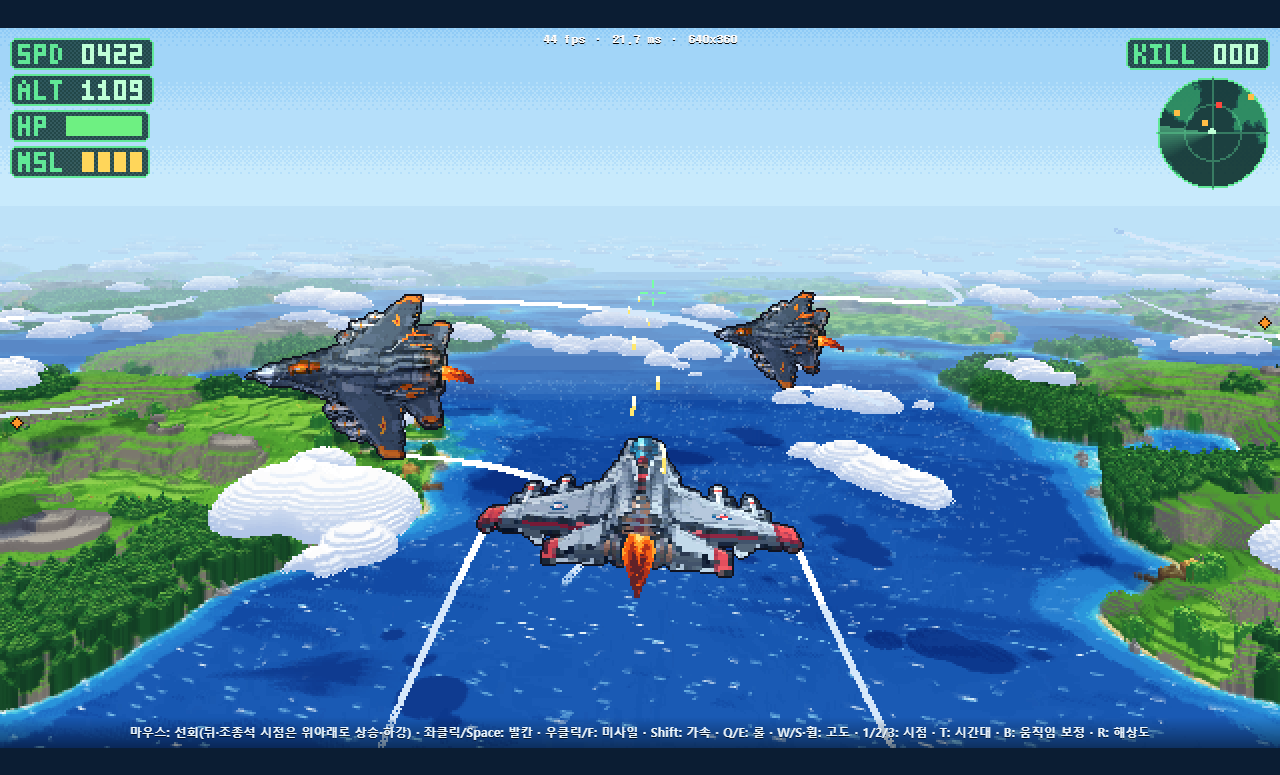
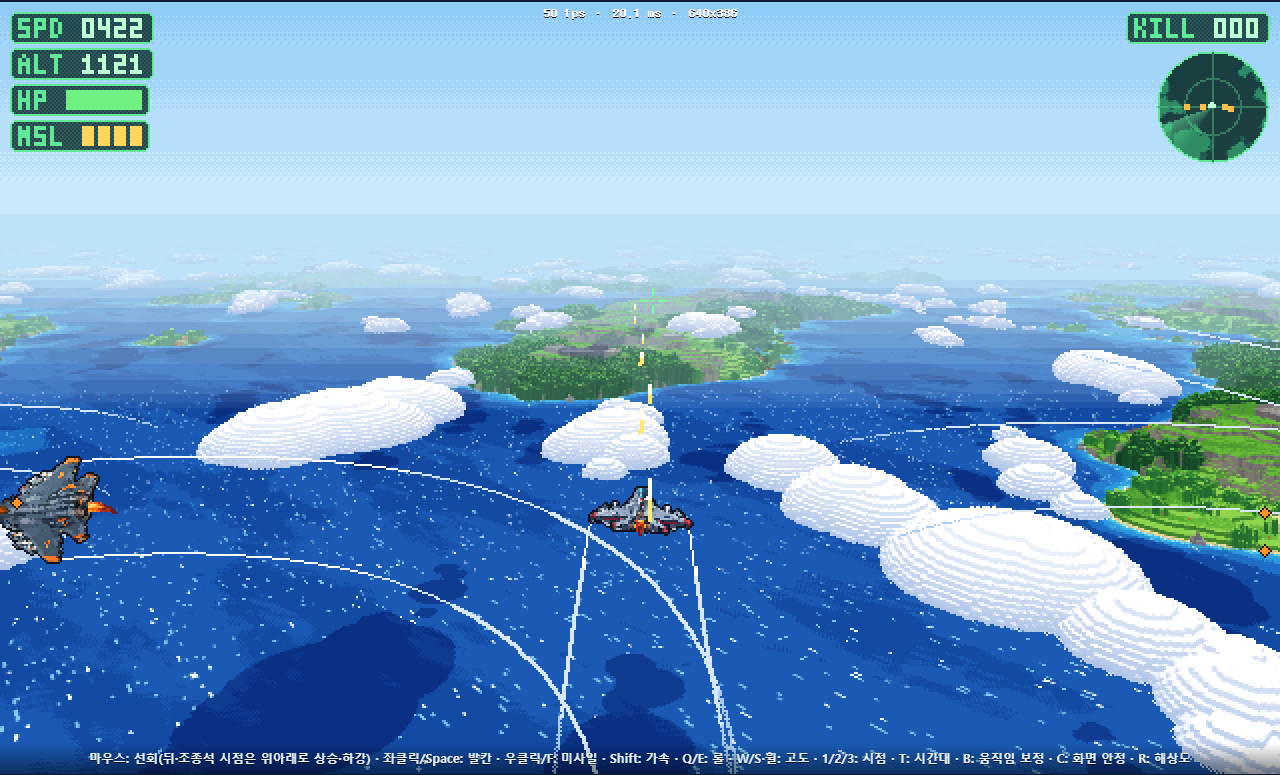
Shrink the jets to a third of their size against the world
Chase camera keeps the same framing of the world; hit boxes, missiles,
exhaust, spray, trails and explosions scale down with the jets.

diff --git a/fighter.html b/fighter.html
@@ -918,14 +918,15 @@ function drawCockpit(fb, W, H, art, live) {
 const N = 2048, NM = N - 1, NSH = 11;        // world size (wraps)
 const NC = 1024, NCM = NC - 1, NCSH = 10;    // cloud map size (wraps)
 const CK = 12, CLOUD_ALT = 78, ZTOP = CLOUD_ALT + CK;
-const JET_SC = 0.55;                          // world units per jet voxel
+const JET_SC = 0.55 / 3;                      // world units per jet voxel (a jet is ~18 units long)
+const JS = JET_SC / 0.55;                      // size of things scaled to the jet, against the original tuning
 const VIEW_DIST = 1700, FOG_START = 340, FOG_STEPS = 12, NSKY = 10, EPS = 1e-5;
 const COCKPIT_LOOK = 64, COCKPIT_EYE = 5;
 const TRAIL_N = 96;
 const BAYER = [0, 8, 2, 10, 12, 4, 14, 6, 3, 11, 1, 9, 15, 7, 13, 5];
 const P = {
   speed: 96, boost: 1.9, agility: 1.3, bank: 56, altitude: 112, ceiling: 280, clearance: 7,
-  cameraFollow: 0.6, chaseDistance: 2.5, chaseAngle: 19, chaseSize: 0.23, transition: 1.2,
+  cameraFollow: 0.6, chaseDistance: 2.5 / JS, chaseAngle: 19, chaseSize: 0.23 * JS, transition: 1.2,
   clouds: 0.4, land: 0.33, seed: 7, afterburner: 0.9,
 };
 
@@ -1432,8 +1433,10 @@ function createGame() {
 
   // ── effects
   // kind: 0 dark smoke · 1 white vapour · 2 fire (ages through the fire palette into smoke)
+  let puffK = 1;   // explode() shrinks its puffs with this
   function puff(kind, x, y, z, vx, vy, vz, size, grow, life, strength, delay = 0) {
     if (puffs.length > 420) puffs.shift();
+    vx *= puffK; vy *= puffK; vz *= puffK; size *= puffK; grow *= puffK;
     puffs.push({ kind, x, y, z, vx, vy, vz, size, grow, life, born: time + delay, strength, seed: (Math.random() * 16) | 0 });
   }
   function spark(x, y, z, vx, vy, vz, life, col, g) {
@@ -1441,6 +1444,7 @@ function createGame() {
     sparks.push({ x, y, z, vx, vy, vz, life, born: time, col, g });
   }
   function explode(x, y, z, big) {
+    puffK = 0.6;
     const rnd = Math.random;
     if (big) {
       // a white flash, a knot of fireballs, more thrown outwards a beat later, then dark smoke rolling up
@@ -1457,6 +1461,7 @@ function createGame() {
       spark(x, y, z, Math.cos(a) * sp, Math.sin(a) * sp, e * sp * 0.6, 0.4 + Math.random() * 0.9, i & 1 ? firePal[1] : firePal[3], 90);
     }
     if (big) cb.shake = Math.max(cb.shake, clamp(1 - Math.hypot(x - lead.x, y - lead.y) / 400, 0, 1) * 0.5);
+    puffK = 1;
   }
   function splash(x, y, big) {
     for (let i = 0; i < (big ? 40 : 3); i++) {
@@ -1467,7 +1472,7 @@ function createGame() {
   }
 
   // ── combat
-  const BUL_SPD = 600, BUL_LIFE = 0.85, HIT_R = 14, HIT_DZ = 15, LOCK_RANGE = 560, LOCK_CONE = 0.42, LOCK_TIME = 0.8;
+  const BUL_SPD = 600, BUL_LIFE = 0.85, HIT_R = 7, HIT_DZ = 9, LOCK_RANGE = 560, LOCK_CONE = 0.42, LOCK_TIME = 0.8;
   function spawnEnemy() {
     const a = Math.random() * 6.283, r = 520 + Math.random() * 220;
     const e = makeJet(models.enemy, lead.x + Math.cos(a) * r, lead.y + Math.sin(a) * r, clamp(lead.z + (Math.random() - 0.5) * 60, 30, 220), Math.random() * 6.283);
@@ -1564,7 +1569,7 @@ function createGame() {
       if (e.burst > 0 && (e.bT -= dt) < 0) {
         e.burst--; e.bT = 0.09;
         const s = BUL_SPD * 0.68;
-        bullets.push({ x: e.x + fx * 30, y: e.y + fy * 30, z: e.z, vx: fx * s + e.vx, vy: fy * s + e.vy, vz: (lead.z - e.z) / Math.max(0.1, dist / s), life: BUL_LIFE, own: false });
+        bullets.push({ x: e.x + fx * 30 * JS, y: e.y + fy * 30 * JS, z: e.z, vx: fx * s + e.vx, vy: fy * s + e.vy, vz: (lead.z - e.z) / Math.max(0.1, dist / s), life: BUL_LIFE, own: false });
       }
     }
     // rounds: a swept hit test so fast rounds do not tunnel through
@@ -1593,11 +1598,11 @@ function createGame() {
         const dx = t.x - m.x, dy = t.y - m.y;
         m.yaw = wrapAngle(m.yaw + clamp(wrapAngle(Math.atan2(dx, -dy) - m.yaw) * 6, -3.2, 3.2) * dt);
         m.z += clamp(t.z - m.z, -80 * dt, 80 * dt);
-        if (Math.hypot(dx, dy, t.z - m.z) < 14) { t.hp = 0; killEnemy(t); m.life = 0; }
+        if (Math.hypot(dx, dy, t.z - m.z) < 9) { t.hp = 0; killEnemy(t); m.life = 0; }
       }
       const fx = Math.sin(m.yaw), fy = -Math.cos(m.yaw);
       m.x += fx * m.spd * dt; m.y += fy * m.spd * dt;
-      if ((m.smokeT -= dt) < 0) { m.smokeT = 0.022; puff(1, m.x - fx * 4, m.y - fy * 4, m.z, -fx * 20, -fy * 20, 1, 1.4, 2.6, 0.8, 0.85); }
+      if ((m.smokeT -= dt) < 0) { m.smokeT = 0.022; puff(1, m.x - fx * 2, m.y - fy * 2, m.z, -fx * 20, -fy * 20, 1, 0.9, 1.8, 0.8, 0.85); }
       if (m.life <= 0) { if (!t || !t.dying) explode(m.x, m.y, m.z, false); missiles.splice(i, 1); }
     }
     for (let i = puffs.length - 1; i >= 0; i--) {
@@ -1694,12 +1699,12 @@ function createGame() {
     if (introDone && boost > 0.3 && Math.random() < dt * 40) {
       const ax = axes(lead), m = lead.model, en = m.engines[(Math.random() * m.engines.length) | 0];
       modelPoint(lead, ax, en.a, m.nozzleK + 14, m.engineY, tmp3);
-      puff(0, tmp3[0], tmp3[1], tmp3[2], -lead.vx * 0.3, -lead.vy * 0.3, 2, 1.6, 6, 0.8, 0.45);
+      puff(0, tmp3[0], tmp3[1], tmp3[2], -lead.vx * 0.3, -lead.vy * 0.3, 2, 1.6 * JS, 6 * JS, 0.8, 0.45);
     }
     if (!cb.dead && lead.z < 20 && matAt(lead.x, lead.y) < NWATER) {
       for (let i = 0, n = Math.round((20 - lead.z) * 0.5 * (speed / P.speed)); i < n; i++) {
         const side = Math.random() * 2 - 1, rx = Math.cos(lead.yaw), ry = Math.sin(lead.yaw);
-        spark(lead.x + rx * side * 10 - lead.vx * 0.12, lead.y + ry * side * 10 - lead.vy * 0.12, 0.5, lead.vx * 0.2 + rx * side * 30, lead.vy * 0.2 + ry * side * 30, 14 + Math.random() * 30, 0.35 + Math.random() * 0.45, whitePal[i & 3], 80);
+        spark(lead.x + rx * side * 10 * JS - lead.vx * 0.12, lead.y + ry * side * 10 * JS - lead.vy * 0.12, 0.5, lead.vx * 0.2 + rx * side * 30, lead.vy * 0.2 + ry * side * 30, 14 + Math.random() * 30, 0.35 + Math.random() * 0.45, whitePal[i & 3], 80);
       }
     }
     updateCombat(dt);
@@ -1910,7 +1915,7 @@ function createGame() {
     F_hzR = hazeCol & 255; F_hzG = (hazeCol >> 8) & 255; F_hzB = (hazeCol >> 16) & 255;
     // jet shadows: each planform, pushed away from the jet by the sun as it climbs
     let nShadow = 0;
-    const reach = 96 * 0.75 * JET_SC + 3;
+    const reach = 96 * 0.75 * JET_SC + 2;
     shTile.fill(0);
     const addShadow = j => {
       if (nShadow >= 8 || Math.abs(j.x - cam.x) > 900 || Math.abs(j.y - cam.y) > 900) return;
@@ -2001,7 +2006,7 @@ function createGame() {
         if (has) {
           const span = Math.max(Math.abs(sxp - prevX), Math.abs(syp - prevY));
           if (span < 700) {
-            const steps = Math.max(1, Math.ceil(span)), alpha = age < 0.5 ? 1 : (1 - age) * 2, col = age < 0.25 ? trailPal[0] : age < 0.6 ? trailPal[1] : trailPal[2], thick = prM > 2 ? 3 : prM > 0.9 ? 2 : 1;
+            const steps = Math.max(1, Math.ceil(span)), alpha = age < 0.5 ? 1 : (1 - age) * 2, col = age < 0.25 ? trailPal[0] : age < 0.6 ? trailPal[1] : trailPal[2], thick = prM * JS > 1.3 ? 2 : 1;
             for (let k = 0; k < steps; k++) {
               const x0 = Math.round(prevX + ((sxp - prevX) * k) / steps), y0 = Math.round(prevY + ((syp - prevY) * k) / steps);
               for (let yy = y0; yy < y0 + thick; yy++) for (let xx = x0; xx < x0 + thick; xx++) {
@@ -2076,8 +2081,8 @@ function createGame() {
     const body = pack(236, 238, 244), tip = pack(232, 60, 50);
     for (const m of missiles) {
       const fx = Math.sin(m.yaw), fy = -Math.cos(m.yaw);
-      line3(m.x - fx * 7, m.y - fy * 7, m.z, m.x + fx * 4, m.y + fy * 4, m.z, body, tip);
-      if (project(m.x - fx * 8, m.y - fy * 8, m.z)) {
+      line3(m.x - fx * 3.5, m.y - fy * 3.5, m.z, m.x + fx * 2, m.y + fy * 2, m.z, body, tip);
+      if (project(m.x - fx * 4, m.y - fy * 4, m.z)) {
         const x = prX | 0, y = prY | 0;
         for (let yy = y - 1; yy <= y + 1; yy++) for (let xx = x - 1; xx <= x + 1; xx++) if (xx >= colLo && yy >= rowLo && xx < colHi && yy < rowHi && zbuf[yy * W + xx] >= prV - 2) fb[yy * W + xx] = flamePal[xx === x && yy === y ? 0 : 2];
       }

diff --git a/src/engine.js b/src/engine.js
@@ -11,14 +11,15 @@
 const N = 2048, NM = N - 1, NSH = 11;        // world size (wraps)
 const NC = 1024, NCM = NC - 1, NCSH = 10;    // cloud map size (wraps)
 const CK = 12, CLOUD_ALT = 78, ZTOP = CLOUD_ALT + CK;
-const JET_SC = 0.55;                          // world units per jet voxel
+const JET_SC = 0.55 / 3;                      // world units per jet voxel (a jet is ~18 units long)
+const JS = JET_SC / 0.55;                      // size of things scaled to the jet, against the original tuning
 const VIEW_DIST = 1700, FOG_START = 340, FOG_STEPS = 12, NSKY = 10, EPS = 1e-5;
 const COCKPIT_LOOK = 64, COCKPIT_EYE = 5;
 const TRAIL_N = 96;
 const BAYER = [0, 8, 2, 10, 12, 4, 14, 6, 3, 11, 1, 9, 15, 7, 13, 5];
 const P = {
   speed: 96, boost: 1.9, agility: 1.3, bank: 56, altitude: 112, ceiling: 280, clearance: 7,
-  cameraFollow: 0.6, chaseDistance: 2.5, chaseAngle: 19, chaseSize: 0.23, transition: 1.2,
+  cameraFollow: 0.6, chaseDistance: 2.5 / JS, chaseAngle: 19, chaseSize: 0.23 * JS, transition: 1.2,
   clouds: 0.4, land: 0.33, seed: 7, afterburner: 0.9,
 };
 
@@ -525,8 +526,10 @@ function createGame() {
 
   // ── effects
   // kind: 0 dark smoke · 1 white vapour · 2 fire (ages through the fire palette into smoke)
+  let puffK = 1;   // explode() shrinks its puffs with this
   function puff(kind, x, y, z, vx, vy, vz, size, grow, life, strength, delay = 0) {
     if (puffs.length > 420) puffs.shift();
+    vx *= puffK; vy *= puffK; vz *= puffK; size *= puffK; grow *= puffK;
     puffs.push({ kind, x, y, z, vx, vy, vz, size, grow, life, born: time + delay, strength, seed: (Math.random() * 16) | 0 });
   }
   function spark(x, y, z, vx, vy, vz, life, col, g) {
@@ -534,6 +537,7 @@ function createGame() {
     sparks.push({ x, y, z, vx, vy, vz, life, born: time, col, g });
   }
   function explode(x, y, z, big) {
+    puffK = 0.6;
     const rnd = Math.random;
     if (big) {
       // a white flash, a knot of fireballs, more thrown outwards a beat later, then dark smoke rolling up
@@ -550,6 +554,7 @@ function createGame() {
       spark(x, y, z, Math.cos(a) * sp, Math.sin(a) * sp, e * sp * 0.6, 0.4 + Math.random() * 0.9, i & 1 ? firePal[1] : firePal[3], 90);
     }
     if (big) cb.shake = Math.max(cb.shake, clamp(1 - Math.hypot(x - lead.x, y - lead.y) / 400, 0, 1) * 0.5);
+    puffK = 1;
   }
   function splash(x, y, big) {
     for (let i = 0; i < (big ? 40 : 3); i++) {
@@ -560,7 +565,7 @@ function createGame() {
   }
 
   // ── combat
-  const BUL_SPD = 600, BUL_LIFE = 0.85, HIT_R = 14, HIT_DZ = 15, LOCK_RANGE = 560, LOCK_CONE = 0.42, LOCK_TIME = 0.8;
+  const BUL_SPD = 600, BUL_LIFE = 0.85, HIT_R = 7, HIT_DZ = 9, LOCK_RANGE = 560, LOCK_CONE = 0.42, LOCK_TIME = 0.8;
   function spawnEnemy() {
     const a = Math.random() * 6.283, r = 520 + Math.random() * 220;
     const e = makeJet(models.enemy, lead.x + Math.cos(a) * r, lead.y + Math.sin(a) * r, clamp(lead.z + (Math.random() - 0.5) * 60, 30, 220), Math.random() * 6.283);
@@ -657,7 +662,7 @@ function createGame() {
       if (e.burst > 0 && (e.bT -= dt) < 0) {
         e.burst--; e.bT = 0.09;
         const s = BUL_SPD * 0.68;
-        bullets.push({ x: e.x + fx * 30, y: e.y + fy * 30, z: e.z, vx: fx * s + e.vx, vy: fy * s + e.vy, vz: (lead.z - e.z) / Math.max(0.1, dist / s), life: BUL_LIFE, own: false });
+        bullets.push({ x: e.x + fx * 30 * JS, y: e.y + fy * 30 * JS, z: e.z, vx: fx * s + e.vx, vy: fy * s + e.vy, vz: (lead.z - e.z) / Math.max(0.1, dist / s), life: BUL_LIFE, own: false });
       }
     }
     // rounds: a swept hit test so fast rounds do not tunnel through
@@ -686,11 +691,11 @@ function createGame() {
         const dx = t.x - m.x, dy = t.y - m.y;
         m.yaw = wrapAngle(m.yaw + clamp(wrapAngle(Math.atan2(dx, -dy) - m.yaw) * 6, -3.2, 3.2) * dt);
         m.z += clamp(t.z - m.z, -80 * dt, 80 * dt);
-        if (Math.hypot(dx, dy, t.z - m.z) < 14) { t.hp = 0; killEnemy(t); m.life = 0; }
+        if (Math.hypot(dx, dy, t.z - m.z) < 9) { t.hp = 0; killEnemy(t); m.life = 0; }
       }
       const fx = Math.sin(m.yaw), fy = -Math.cos(m.yaw);
       m.x += fx * m.spd * dt; m.y += fy * m.spd * dt;
-      if ((m.smokeT -= dt) < 0) { m.smokeT = 0.022; puff(1, m.x - fx * 4, m.y - fy * 4, m.z, -fx * 20, -fy * 20, 1, 1.4, 2.6, 0.8, 0.85); }
+      if ((m.smokeT -= dt) < 0) { m.smokeT = 0.022; puff(1, m.x - fx * 2, m.y - fy * 2, m.z, -fx * 20, -fy * 20, 1, 0.9, 1.8, 0.8, 0.85); }
       if (m.life <= 0) { if (!t || !t.dying) explode(m.x, m.y, m.z, false); missiles.splice(i, 1); }
     }
     for (let i = puffs.length - 1; i >= 0; i--) {
@@ -787,12 +792,12 @@ function createGame() {
     if (introDone && boost > 0.3 && Math.random() < dt * 40) {
       const ax = axes(lead), m = lead.model, en = m.engines[(Math.random() * m.engines.length) | 0];
       modelPoint(lead, ax, en.a, m.nozzleK + 14, m.engineY, tmp3);
-      puff(0, tmp3[0], tmp3[1], tmp3[2], -lead.vx * 0.3, -lead.vy * 0.3, 2, 1.6, 6, 0.8, 0.45);
+      puff(0, tmp3[0], tmp3[1], tmp3[2], -lead.vx * 0.3, -lead.vy * 0.3, 2, 1.6 * JS, 6 * JS, 0.8, 0.45);
     }
     if (!cb.dead && lead.z < 20 && matAt(lead.x, lead.y) < NWATER) {
       for (let i = 0, n = Math.round((20 - lead.z) * 0.5 * (speed / P.speed)); i < n; i++) {
         const side = Math.random() * 2 - 1, rx = Math.cos(lead.yaw), ry = Math.sin(lead.yaw);
-        spark(lead.x + rx * side * 10 - lead.vx * 0.12, lead.y + ry * side * 10 - lead.vy * 0.12, 0.5, lead.vx * 0.2 + rx * side * 30, lead.vy * 0.2 + ry * side * 30, 14 + Math.random() * 30, 0.35 + Math.random() * 0.45, whitePal[i & 3], 80);
+        spark(lead.x + rx * side * 10 * JS - lead.vx * 0.12, lead.y + ry * side * 10 * JS - lead.vy * 0.12, 0.5, lead.vx * 0.2 + rx * side * 30, lead.vy * 0.2 + ry * side * 30, 14 + Math.random() * 30, 0.35 + Math.random() * 0.45, whitePal[i & 3], 80);
       }
     }
     updateCombat(dt);
@@ -1003,7 +1008,7 @@ function createGame() {
     F_hzR = hazeCol & 255; F_hzG = (hazeCol >> 8) & 255; F_hzB = (hazeCol >> 16) & 255;
     // jet shadows: each planform, pushed away from the jet by the sun as it climbs
     let nShadow = 0;
-    const reach = 96 * 0.75 * JET_SC + 3;
+    const reach = 96 * 0.75 * JET_SC + 2;
     shTile.fill(0);
     const addShadow = j => {
       if (nShadow >= 8 || Math.abs(j.x - cam.x) > 900 || Math.abs(j.y - cam.y) > 900) return;
@@ -1094,7 +1099,7 @@ function createGame() {
         if (has) {
           const span = Math.max(Math.abs(sxp - prevX), Math.abs(syp - prevY));
           if (span < 700) {
-            const steps = Math.max(1, Math.ceil(span)), alpha = age < 0.5 ? 1 : (1 - age) * 2, col = age < 0.25 ? trailPal[0] : age < 0.6 ? trailPal[1] : trailPal[2], thick = prM > 2 ? 3 : prM > 0.9 ? 2 : 1;
+            const steps = Math.max(1, Math.ceil(span)), alpha = age < 0.5 ? 1 : (1 - age) * 2, col = age < 0.25 ? trailPal[0] : age < 0.6 ? trailPal[1] : trailPal[2], thick = prM * JS > 1.3 ? 2 : 1;
             for (let k = 0; k < steps; k++) {
               const x0 = Math.round(prevX + ((sxp - prevX) * k) / steps), y0 = Math.round(prevY + ((syp - prevY) * k) / steps);
               for (let yy = y0; yy < y0 + thick; yy++) for (let xx = x0; xx < x0 + thick; xx++) {
@@ -1169,8 +1174,8 @@ function createGame() {
     const body = pack(236, 238, 244), tip = pack(232, 60, 50);
     for (const m of missiles) {
       const fx = Math.sin(m.yaw), fy = -Math.cos(m.yaw);
-      line3(m.x - fx * 7, m.y - fy * 7, m.z, m.x + fx * 4, m.y + fy * 4, m.z, body, tip);
-      if (project(m.x - fx * 8, m.y - fy * 8, m.z)) {
+      line3(m.x - fx * 3.5, m.y - fy * 3.5, m.z, m.x + fx * 2, m.y + fy * 2, m.z, body, tip);
+      if (project(m.x - fx * 4, m.y - fy * 4, m.z)) {
         const x = prX | 0, y = prY | 0;
         for (let yy = y - 1; yy <= y + 1; yy++) for (let xx = x - 1; xx <= x + 1; xx++) if (xx >= colLo && yy >= rowLo && xx < colHi && yy < rowHi && zbuf[yy * W + xx] >= prV - 2) fb[yy * W + xx] = flamePal[xx === x && yy === y ? 0 : 2];
       }
